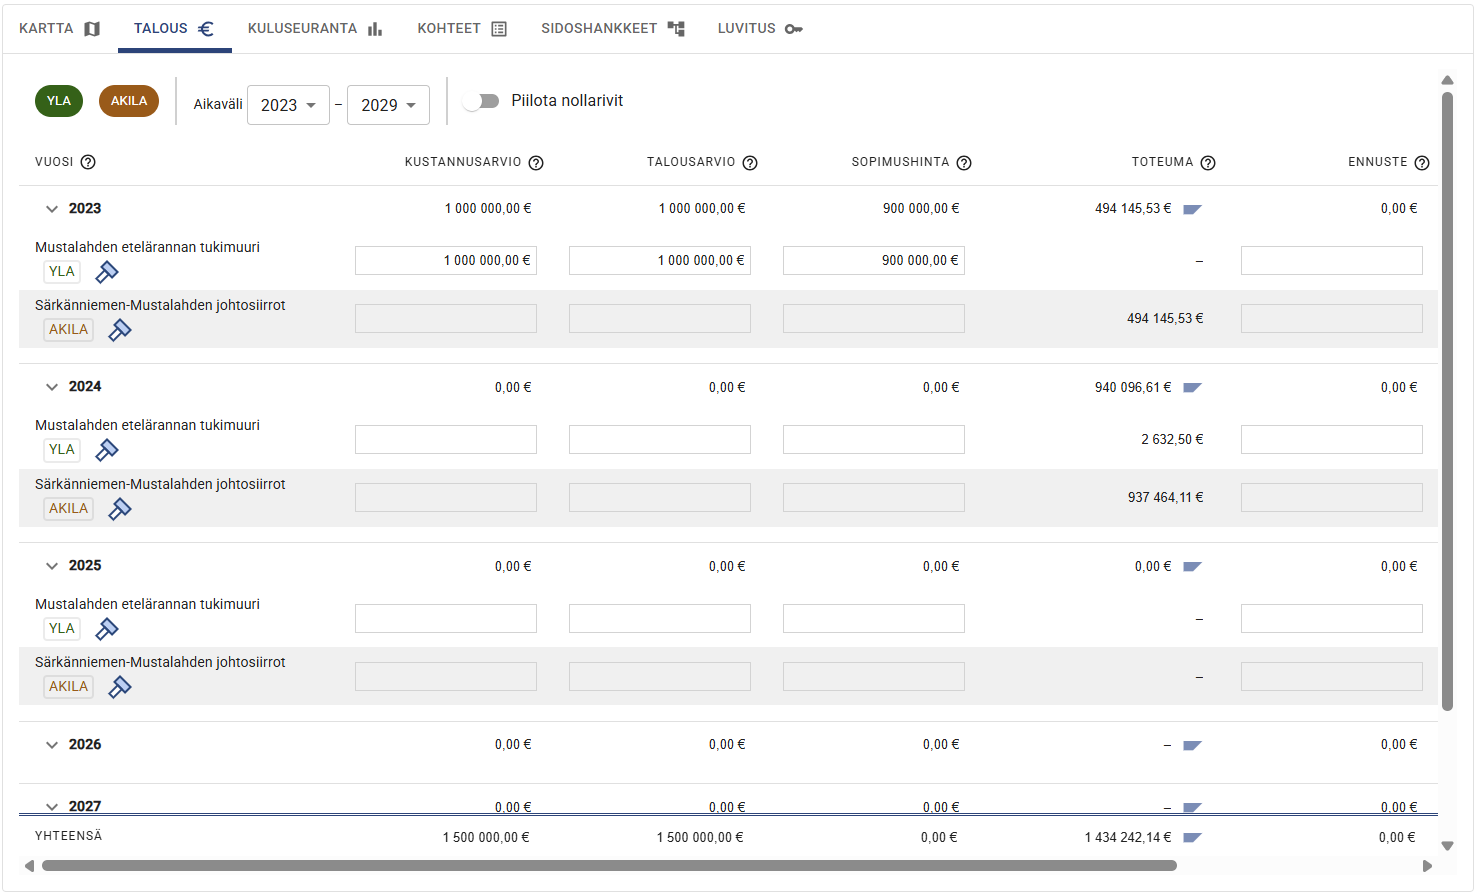
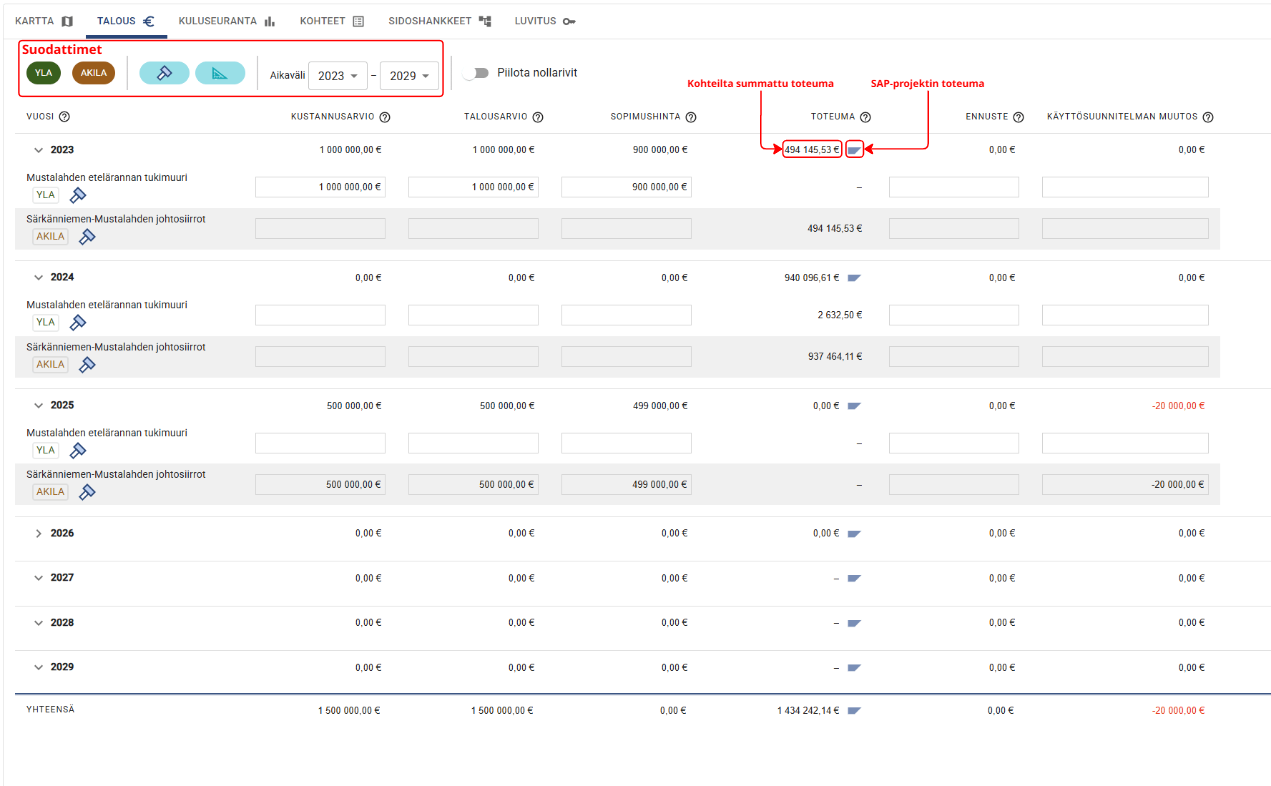
usermanual-update

diff --git a/frontend/src/views/Manual/fi.md b/frontend/src/views/Manual/fi.md
@@ -313,11 +313,11 @@ _Yllä olevassa kuvassa on esitetty kohteelle valitut toimijat. Valvojaksi on va
 Vaihe on kohteeseen kohdistuva työvaihe, josta syntyy jokin konkreettinen tulos ja samalla kustannus. Vaiheet haetaan SAP:sta olettaen, että Hannan kohteelle on kirjattu soveltuva SAP-rakenneosan tunniste. Vaiheella ei ole sijaintia. Vaiheen tuloksena voi olla esimerkiksi uusi tai korjattu rakennus tai muu rakennelma, asiakirja, mittaustulos tai ylläpitotoimi. Alla olevassa taulukossa on kuvattu vaiheen tietosisältö. Vaiheille listataan tiedoksi niiden nelinumeroinen tyyppikoodi, sen sanallinen selite sekä toteuma. Jos selitettä ei ole tarjolla, esitetään vain tyyppikoodi. Toteuman suhteen on tärkeää huomioida se, että SAP:n tositteen voi osoittaa myös suoraan rakenneosalle, mikä tarkoittaa sitä, että Hannan kohteella näytettävä toteuma ei aina vastaa sen vaiheiden yhteenlaskettua toteumaa.
 
 ### Taloussuunnittelu ja -seuranta investointihankkeella
-Hankkeen ja sen kohteiden Talous-välilehdillä on mahdollista tarkastella ja kirjata niille vuosikohtainen kustannusarvio, talousarvio, sopimushinta, ennuste ja käyttösuunnitelman muutos. Lisäksi samaan näkymään luetaan SAP:sta toteuma, jos sellainen on tarjolla. Toteuman esittämisen ehtona on, että hankkeelle on asetettu SAP-projektin ID sekä kohteelle SAP-rakenneosa. Hankkeen Talous-välilehdelle esitetään ensisijaisena tietona kohteilta summattu toteuma ja toisisijaisena SAP-projektin toteuma, joka avautuu kun käyttäjä vie hiiren Toteuma-sarakkeessa näkyvän sinisen "palkin" päälle. Talous-välilehdelle näkyvien vuosikohtaisten rivien lukumäärä johdetaan automaattisesti kohteelle annetusta toteutusvälistä (alku- ja loppuajankohta). Luvut esittävät aina euroja, ja ne esitetään kahden desimaalin tarkkuudella. **Kaikki talousluvut kirjataan kohdetasolla, joista käsin ne koostetaan tiedoksi hankkeelle.**
+Hankkeen ja sen kohteiden Talous-välilehdillä on mahdollista tarkastella ja kirjata niille vuosikohtainen kustannusarvio, talousarvio, sopimushinta, ennuste ja käyttösuunnitelman muutos. Lisäksi samaan näkymään luetaan SAP:sta toteuma, jos sellainen on tarjolla. Toteuman esittämisen ehtona on, että hankkeelle on asetettu SAP-projektin ID sekä kohteelle SAP-rakenneosa. Hankkeen Talous-välilehdellä esitetään ensisijaisena tietona kohteilta summattu toteuma ja toisisijaisena SAP-projektin toteuma, joka avautuu kun käyttäjä vie hiiren Toteuma-sarakkeessa näkyvän sinisen "palkin" päälle (ks. alla oleva kuva). Talous-välilehdelle näkyvien vuosikohtaisten rivien lukumäärä johdetaan automaattisesti kohteelle annetusta toteutusvälistä (alku- ja loppuajankohta). Luvut esittävät aina euroja, ja ne esitetään kahden desimaalin tarkkuudella. **Kaikki talousluvut kirjataan kohdetasolla, joista käsin ne koostetaan tiedoksi hankkeelle.**
 
 ![monilautakuntaisen_investointihankkeen_talousvälilehti](/images/monilautakuntainen_talousvalilehti.png)
 
-_Yllä olevassa kuvassa on esitetty talousvälilehti investointihankkeelle, jolle on yksilöity kaksi lautakuntaa: yhdyskuntalautakunta ja asunto- ja kiinteistölautakunta. Vuosikohtaiset talousrivit on eritelty niin, että jokaiselle lautakunnalle on omansa. Luvut on summattu alhaalla. Hankkeella ainoastaan kustannusarviokenttä on muokattavissa._
+_Yllä olevassa kuvassa on esitetty talousvälilehti investointihankkeelle, jonka kohteista osa on asetettu yhdyskuntalautakunnalle (YLA) ja osa asunto- ja kiinteistölautakunnalle (AKILA). Inveistointihankkeen kohteista osa kuuluu Kohteen laji-tiedoltaan Rakentaminen-luokkaan ja osa Suunnittelu-luokkaan. Käyttäjä voi suodattaa kohteita klikkaamalla taulukon yläpuolella olevia suodattimia (lautakunta, kohteen laji, aikaväli). Valitun aikavälin kaikki luvut on summattu alhaalla._
 
 Alla on annettu tarkemmat kuvaukset, jokaisesta talousmuuttujasta.
 - **Kustannusarvio:** Kustannusarvio on kohteelle arvioitu kustannus, joka on ehdolla talousarvioon.
@@ -433,7 +433,7 @@ Alla on kuvattu näkymään liittyvät toiminnallisuudet yllä olevan kuvan nume
 
 ![Investointien taloussuunnittelu](/images/investointien_taloussuunnittelu_nakyma.png)
 
-Investointien taloussuunnittelu-näkymä on tarkoitettu pidemmän aikavälin investointien suunnitteluun sekä investointien seuraamiseen ja hallinnointiin. Näkymä muodostuu taulukosta, joka listaa **investointihankkeiden kohteita**.  Näkymä mahdollistaa eri vuosien kustannuskertymien seurannan sekä talousarvion lukujen muokkaamisen usealle vuodelle samassa näkymässä. Näkymä on luotu erityisesti PALM:n ja kehitysohjelmien pitkän aikavälin suunnittelua varten.
+Investointien taloussuunnittelu-näkymä on tarkoitettu pidemmän aikavälin investointien suunnitteluun sekä investointien seuraamiseen ja hallinnointiin. Näkymä muodostuu taulukosta, joka listaa **investointihankkeet sekä -kohteet**.  Näkymä mahdollistaa eri vuosien kustannuskertymien seurannan sekä talousarvion lukujen muokkaamisen usealle vuodelle samassa näkymässä. Näkymä on luotu erityisesti PALM:n ja kehitysohjelmien pitkän aikavälin suunnittelua varten.
 
 Taulukko rakentuu seuraavalla tavalla:
 
